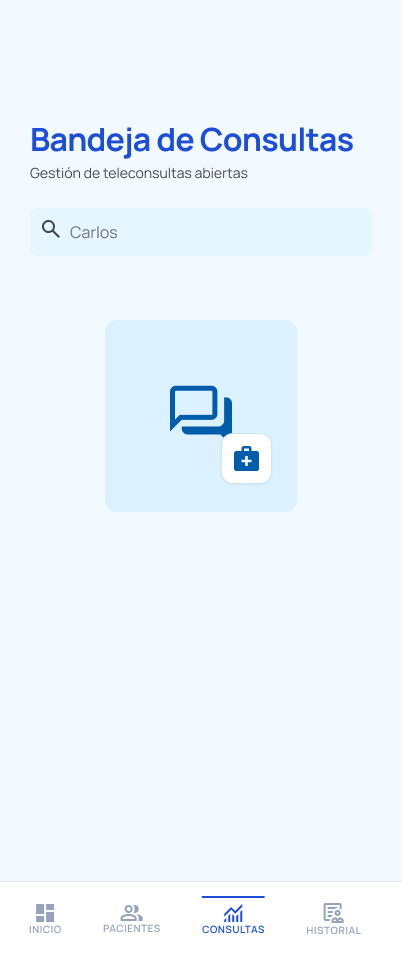
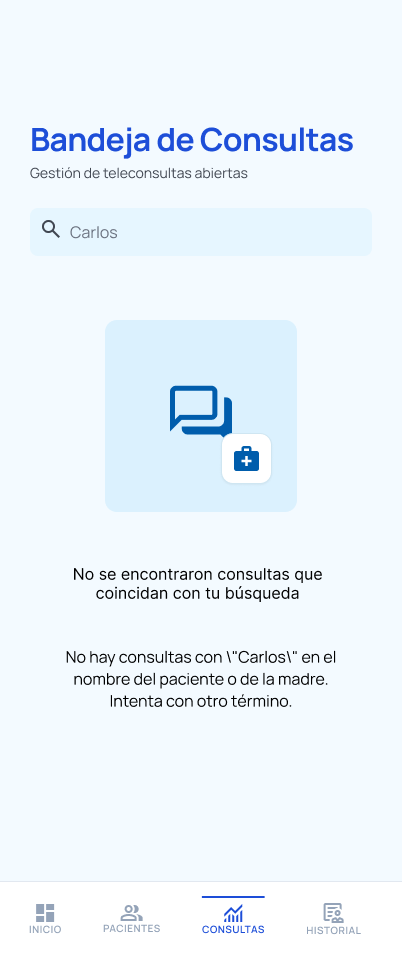
Fix HTML alignment issue and update scenarios in ari.md

diff --git a/ari.md b/ari.md
@@ -26,7 +26,7 @@
 
 > caso de que el enfermero no tiene una consulta de las madres de un paciente en la bandeja de consultas
 
-<div aling ="center">
+<div align ="center">
 <img src="resources/communication/Sin Consultas.png">
 </div>
 
@@ -231,7 +231,13 @@ Conectar los siguientes **Endpoints**:
 ]
 ```
 
+caso de que la madre no registro un paciente
 
+```json
+  []
+```
+
+---
 > Ver mas [Link](https://github.com/SANUVI-MINSA/backend-ferova/blob/develop/src/context/patient-management/Documentation.md#get-mothermotherid--listar-pacientes-por-madre)
 
 
@@ -260,3 +266,72 @@ Conectar los siguientes **Endpoints**:
 
 > Ver mas [Link](https://github.com/SANUVI-MINSA/backend-ferova/blob/develop/src/context/patient-management/Documentation.md#post-assign-nurse--asignarse-un-paciente)
 
+# Flujos
+
+## Comunication + Chat
+
+### Scenario 1: Enfermero tiene pacientes asignados sin consultas activas de las madres
+
+<div align="center">
+<img src="resources/communication/Group%20264.png">
+</div>
+
+Desde Home cuando accedo a la opcion de consultas, se redirecciona a la bandeja de consultas, donde se listan las consultas activas de las madres. Si no hay consultas activas, se muestra un frame de Sin Consultas.
+
+### Scenario 2: Enfermero no tiene pacientes asignados en su cartera
+
+<div align="center">
+<img src="resources/communication/Group%20267.png">
+</div>
+
+Desde Home cuando accedo a la opcion de consultas, se redirecciona a la bandeja de consultas, donde se listan las consultas activas de las madres. Si no hay pacientes asignados en su cartera, se muestra un frame de Sin Pacientes.
+Y se muestra un boton para asignar pacientes el cual redirecciona a la seccion de pacientes, donde se puede buscar a la madre por dni y asignar a su paciente a la cartera del enfermero.
+
+### Scenario 3: Enferemro tiene consultas activas y busca consultas por nombre de paciente o madre
+
+<div align="center">
+<img src="resources/communication/Group%20266.png">
+</div>
+
+Desde Home cuando accedo a la opcion de consultas, se redirecciona a la bandeja de consultas, donde se listan las consultas activas de las madres. Si el enfermero realiza una busqueda por nombre de paciente o madre y no hay resultados, se muestra un frame de Sin resultados de busqueda.
+Caso contrario, se muestran las consultas que coinciden con el termino de busqueda.
+
+### Scenario 4: Enfermero tiene consultas activas y abre el chat de la consulta selecionada, envia un mensaje y cierra la consulta
+
+<div align="center">
+<img src="resources/communication/Group%20265.png">
+</div>
+
+Desde Home cuando accedo a la opcion de consultas, se redirecciona a la bandeja de consultas, donde se listan las consultas activas de las madres. Si el enfermero selecciona una consulta de la bandeja le abrira el chat con la madre el cual podra enviarle un mensaje y cerrar dicha consulta si todo las dudas de la madre se aclaren.
+Dicha Consulta cerrada actualizada la bandeja de consulta el cual dicha consulta cerrada se elimina de la bandeja de consultas.
+
+## Asignacion de pacientes a la cartera del enfemero (Seccion Pacientes)
+
+### Scenario 1: Si la madre encontrada por el dni no tiene pacientes registrados desde FerovaFamily
+
+<div align="center">
+<img src="resources/patient/Group%20261.png">
+</div>
+
+Desde Home cuando accedo a la opcion de pacientes, se redirreciona a un buscador en el cual introducimos el dni de la madre, para assignar a un paciente que ella registro desde Ferova Family.
+Pero Caso de que no registro un paciente la madre desde FerovaFamily, aparecera un frame de no se encontraro niños registrados,
+
+### Scenario 2: Si el enfemero no tiene una posta assignada por parte del admin
+
+<div align="center">
+<img src="resources/patient/Group%20263.png">
+</div>
+
+Desde Home cuando accedo a la opcion de pacientes, se redirreciona a un buscador en el cual introduzco el dni de la madre, para asignar a un paciente que dicha madre registro desde ferovafamily.
+Una vez introducido el dni y selecionar a la madre de la busqueda, se mostraran los pacientes que registro dicha madre, una vez que el enfermero quiere asignar dicho paciente a su cartera se mostrara un mensaje de modal de **Nurse is not assigned to any facilty**, el cual representa de que el enfermero no tiene una posta asignada por parte del admin y no podra asignar a su cartera a dicho paciente seleccionado.
+
+### Scenario 3: Si el enfemero tiene una posta assignada por parte del admin entonces podra assingar a su carter a un paciente
+
+<div align="center">
+<img src="resources/patient/Group%20262.png">
+</div>
+
+Desde Home cuando accedo a la opcion de pacientes se redirreciona a un buscador en el cual introducimos el dni de la madre, para assignar a un paciente que dicha madre registro desde ferovafamily.
+Una vez introducido el dni y seleccionar a la madre de la busqueda, se mostraran los pacientes que registro dicha madre, una vez que el enfermero quiera asignar dicho paciente a su cartera presiona le btn de assignar cambiara el estado del card pasando de **Sin asignar -> Asignado**.
+
+> Ari si es posible haz una animacion al momento de presionar el btn de assignar paciente en si seria bueno la verdad intentalo es un reto (Dyaron lo hizo en si recuerdo bien en Flutter, habla con el de ello).